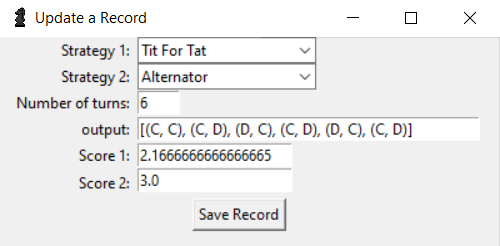
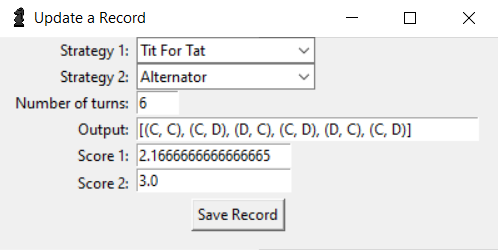
fixed and improved Show Records and Reset Record buttons

diff --git a/interactive-gt.py b/interactive-gt.py
@@ -73,8 +73,6 @@ def clearDB():
     
     if clearDBWarning == True:
         c.execute("DELETE FROM matches")
-        showRecordsLabel = Label(dbWindow, text="", bg="black", fg="white")
-        showRecordsLabel.grid(row=9, column=0, columnspan=2)
     
     conn.commit()
     conn.close()
@@ -83,7 +81,7 @@ def clearPayoffs():
     """
         Fills the payoff matrix with zeros and default strategy names
     """
-    proceed = messagebox.askokcancel("Clear Payoffs?", "Are you sure you want to clear the payoff matrix?")
+    proceed = messagebox.askokcancel("Clear Payoffs?", "Are you sure you want to clear the payoffs?")
     if (proceed == True):
         numStrats1 = int(numStratsEntry1.get())
         numStrats2 = int(numStratsEntry2.get())
@@ -471,10 +469,11 @@ def db():
     dbTurnsEntry.insert(0, "6")
     addRecordButton = Button(dbWindow, text="Add Record", command=addRecord)
     showRecordsButton = Button(dbWindow, text="Show Records", command=showRecords)
-    selectIDLabel = Label(dbWindow, text="Select ID")
+    selectIDLabel = Label(dbWindow, text="Select ID: ")
     selectIDEntry = Entry(dbWindow, width=20)
     deleteRecordButton = Button(dbWindow, text="Delete Record", command=deleteRecord)
     updateRecordButton = Button(dbWindow, text="Update Record", command=updateRecord)
+    resetRecordButton = Button(dbWindow, text="Reset Record", command=resetRecord)
     clearDBButton = Button(dbWindow, text="Clear DB", command=clearDB)
         
     # Putting everything in the top window
@@ -490,7 +489,8 @@ def db():
     selectIDEntry.grid(row=5, column=1, pady=(0, 5), sticky=W)
     deleteRecordButton.grid(row=6, column=0, columnspan=2, padx=5, pady=(0, 5), ipadx=135)
     updateRecordButton.grid(row=7, column=0, columnspan=2, padx=5, pady=(0, 5), ipadx=132)
-    clearDBButton.grid(row=8, column=0, columnspan=2, padx=5, pady=(0, 5), ipadx=148)
+    resetRecordButton.grid(row=8, column=0, columnspan=2, padx=5, pady=(0, 5), ipadx=136)
+    clearDBButton.grid(row=9, column=0, columnspan=2, padx=5, pady=(0, 5), ipadx=148)
     
     # Commit changes
     conn.commit()
@@ -502,30 +502,30 @@ def db():
 def dbStartMatch(p1, p2, t = 6):    
     """
     Runs an axelrod match between players of type p1 and p2 with t turns and returns a tuple of the match output and scores
-    """
+    """    
     p1 = ""
     p2 = ""
     clicked1NoSpaces = clicked1.get().replace(" ", "")
     clicked2NoSpaces = clicked2.get().replace(" ", "")
-    counter1 = 0
-    while type(p1).__name__ == "str" and counter1 <= len(axl.strategies):
+    counter= 0
+    while type(p1).__name__ == "str" and counter <= len(axl.strategies):
         try:
-            if type(options[counter1]).__name__ == clicked1NoSpaces:
-                p1 = options[counter1]
+            if type(options[counter]).__name__ == clicked1NoSpaces:
+                p1 = options[counter]
         except IndexError:
             stratNotFoundError = messagebox.showerror("Error", "The strategy you entered for player 1 was not in axelrod's list of strategies. Perhaps you meant to capitalize the individual words?")
-        counter1 += 1
-    counter2 = 0
-    while type(p2).__name__ == "str" and counter2 <= len(axl.strategies):
+        counter += 1  
+    
+    counter = 0
+    while type(p2).__name__ == "str" and counter <= len(axl.strategies):
         try:
-            if type(options[counter2]).__name__ == clicked2NoSpaces:
-                p2 = options[counter2]
+            if type(options[counter]).__name__ == clicked2NoSpaces:
+                p2 = options[counter]
                 
                 match = axl.Match((p1, p2), turns = t)
         except IndexError:
             stratNotFoundError = messagebox.showerror("Error", "The strategy you entered for player 2 was not in axelrod's list of strategies. Perhaps you meant to capitalize the individual words?")
-        counter2 += 1
-
+        counter += 1
     return (str(match.play()), match.final_score_per_turn())
 
 def deleteRecord():
@@ -536,7 +536,7 @@ def deleteRecord():
     try:
         c.execute("DELETE FROM matches WHERE oid=" + selectIDEntry.get())
     except sqlite3.OperationalError:
-        IDNotSelectedError = messagebox.showerror("Error", "You must enter an ID in the entry field to delete a record.")            
+        IDNotSelectedError = messagebox.showerror("Error", "You must enter an ID to delete a record.")            
     
     conn.commit()
     conn.close()
@@ -619,7 +619,7 @@ def numStratsClick():
                 negativeStratsError = messagebox.showerror("Error", "A player may not have a negative number of strategies.")
                 return
             if negativeStratsError == -1:
-                proceed = messagebox.askokcancel("Clear Payoffs?", "This will clear the payoff matrix. Do you want to proceed?")
+                proceed = messagebox.askokcancel("Clear Payoffs?", "This will reset the payoff matrix. Do you want to proceed?")
                 if (proceed == True):        
                     # clearing the table
                     payoffMatrixSlaves = payoffsFrame.grid_slaves()
@@ -977,6 +977,42 @@ def saveAsLatex():
     fileNameButton.grid(row=0, column=2)
     return
 
+def resetRecord():
+    """
+    Resets or recomputes the values that should be in a record according to the given inputs. 
+    """
+    conn = sqlite3.connect('match.db')
+    c = conn.cursor()
+    
+    # Check if an ID was actually selected
+    recordID  = selectIDEntry.get()
+    if recordID == "":
+        emptyRecordIDError = messagebox.showerror("Error", "You must enter an ID to reset a record.")
+        conn.commit()
+        conn.close()
+        return
+    
+    c.execute("""UPDATE matches SET
+              strategy1 = :strategy1, 
+              strategy2 = :strategy2, 
+              numTurns = :numTurns, 
+              output = :output,
+              score1 = :score1,
+              score2 = :score2
+              WHERE oid = :oid""",
+              {
+                  'strategy1': dbClicked1.get(), 
+                  'strategy2': dbClicked2.get(), 
+                  'numTurns': dbTurnsEntry.get(),
+                  'output': dbStartMatch(dbClicked1.get(), dbClicked2.get(), int(dbTurnsEntry.get()))[0],
+                  'score1': dbStartMatch(dbClicked1.get(), dbClicked2.get(), int(dbTurnsEntry.get()))[1][0],
+                  'score2': dbStartMatch(dbClicked1.get(), dbClicked2.get(), int(dbTurnsEntry.get()))[1][1],
+                  'oid': recordID
+              })    
+    
+    conn.commit()
+    conn.close()
+
 def saveRecord():
     """
     Saves an updated record into the database
@@ -985,14 +1021,13 @@ def saveRecord():
     c = conn.cursor()
     
     record_id = selectIDEntry.get()
-    c.execute(""" UPDATE matches SET 
+    c.execute("""UPDATE matches SET 
               strategy1 = :strategy1, 
               strategy2 = :strategy2, 
               numTurns = :numTurns, 
               output = :output,
               score1 = :score1,
               score2 = :score2
-              
               WHERE oid = :oid""",
               {
                   'strategy1': updateClicked1.get(), 
@@ -1020,17 +1055,24 @@ def showRecords():
     records = c.fetchall()
     
     recordsString = ""
-    for record in records:
-        recordsString += str(record[0]) + " " + str(record[1]) + " " + str(record[2]) + " " + str(record[3]) + " " + str(record[4]) + " " + str(record[5]) + " " + str(record[6]) + "\n"
+    for i, record in enumerate(records):
+        if i < len(records):
+            recordsString += str(record[0]) + " " + str(record[1]) + " " + str(record[2]) + " " + str(record[3]) + " " + str(record[4]) + " " + str(record[5]) + " " + str(record[6])
+        else:
+            recordsString += str(record[0]) + " " + str(record[1]) + " " + str(record[2]) + " " + str(record[3]) + " " + str(record[4]) + " " + str(record[5]) + " " + str(record[6]) + "\n"
     
     global showRecordsLabel
     
+    # Clearing the records label
+    dbWindowSlaves = dbWindow.grid_slaves()
+    if type(dbWindowSlaves[0]).__name__ == "Label":
+        dbWindowSlaves[0].grid_remove()
+    
     showRecordsLabel = Label(dbWindow, text=recordsString, bg="black", fg="white")
-    showRecordsLabel.grid(row=9, column=0, columnspan=2, padx=10)
+    showRecordsLabel.grid(row=10, column=0, columnspan=2, padx=10)
     
     # Commit changes
     conn.commit()
-
     # Close Connection
     conn.close()
     
@@ -1138,13 +1180,13 @@ def startMatch(p1, p2, output, t = 6):
                         root.geometry(f"700x{axelrodOutput2.winfo_reqwidth() + 200}")
             except IndexError:
                 stratNotFoundError = messagebox.showerror("Error", f"The strategy you entered for player 2 \"{clicked2.get()}\" was not in axelrod's list of strategies. Perhaps you meant to capitalize the individual words?")
-            counter += 1        
+            counter += 1
     return
 
 """def startTournament(t = 10, r = 5):
     players = [s() for s in axl.demo_strategies]
     tournament = axl.Tournament(players=players, turns=t, repetitions=r)
-    results = tournament.play() 
+    results = tournament.play()
     print("results:", results)
     
     axelrodOutput1 = Label(axelrodFrame, text=results, relief=SUNKEN, bd=1, anchor=E)
@@ -1156,7 +1198,7 @@ def startMatch(p1, p2, output, t = 6):
 
 def updateRecord():
     """
-    Updates a record in the matches table
+    Allows the user to manually update a record in the matches table
     """    
     conn = sqlite3.connect('match.db')
     c = conn.cursor()
@@ -1165,7 +1207,10 @@ def updateRecord():
     try:
         c.execute("SELECT * FROM matches WHERE oid=" + recordID)
     except sqlite3.OperationalError:
-        IDNotSelectedError = messagebox.showerror("Error", "You must enter an ID in the entry field to update a record.")
+        IDNotSelectedError = messagebox.showerror("Error", "You must enter an ID to update a record.")
+        
+        conn.commit()
+        conn.close()
         return
     
     global topUpdate
@@ -1196,7 +1241,7 @@ def updateRecord():
     strategy2Dropdown = ttk.Combobox(topUpdate, textvariable=updateClicked2, values=options)
     numTurnsLabel = Label(topUpdate, text="Number of turns: ")
     numTurnsEntry = Entry(topUpdate, width=5)
-    outputLabel = Label(topUpdate, text="output: ")
+    outputLabel = Label(topUpdate, text="Output: ")
     outputEntry = Entry(topUpdate, width=45)
     score1Label = Label(topUpdate, text="Score 1: ")
     score1Entry = Entry(topUpdate, width=20)
@@ -1716,7 +1761,6 @@ clicked2NoSpaces = clicked2.get().replace(" ", "")
 counter = 0
 while type(p1).__name__ == "str":
     if type(options[counter]).__name__ == clicked1NoSpaces:
-        print("counter:", counter)
         p1 = options[counter]
     counter += 1
 counter = 0
